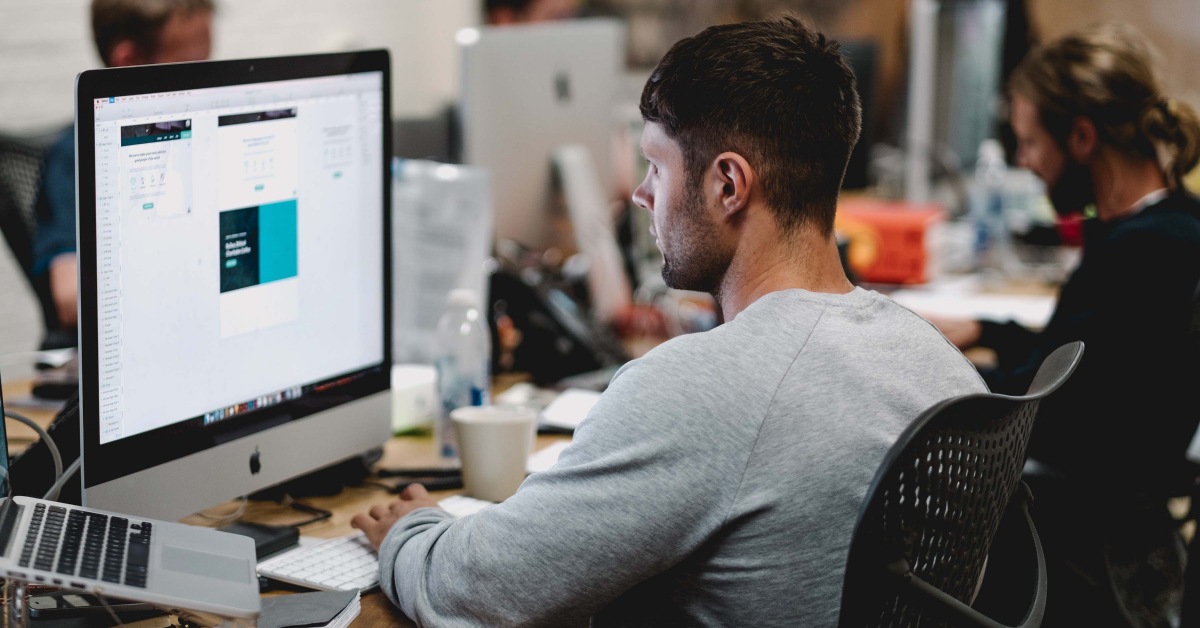
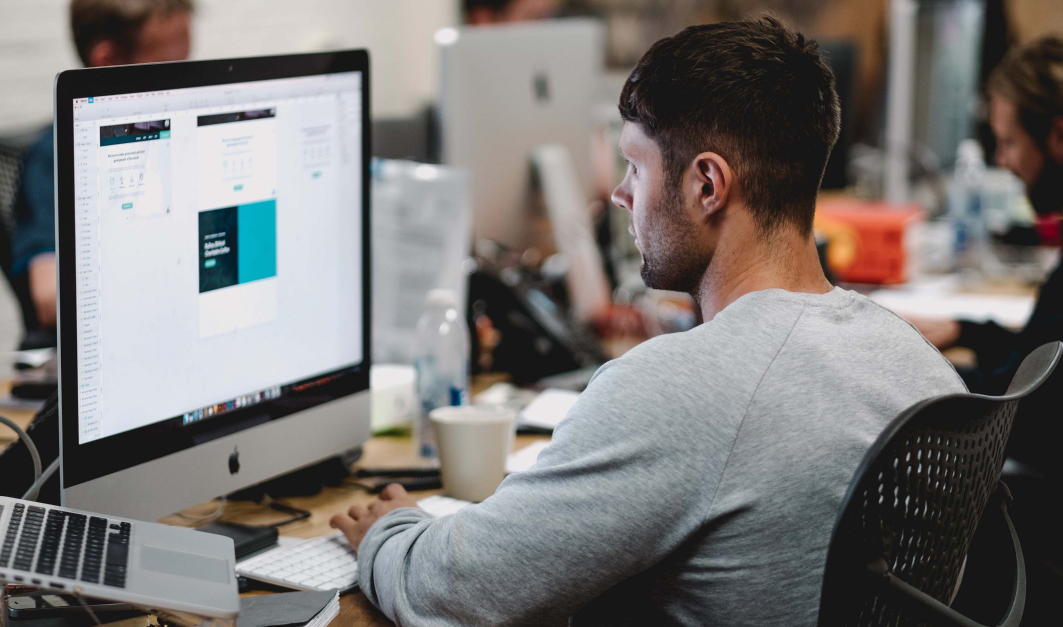
Arreglos en responsive de imagenes

diff --git a/dist/main.css b/dist/main.css
@@ -205,7 +205,7 @@ h1{
   padding: 1rem 2rem;
   display: flex;
   align-items: center;
-  font-size: 1.2em;
+  font-size: 1em;
   max-width: 768px;
 }
 
@@ -243,6 +243,8 @@ h1{
   align-items: flex-start;
   flex-direction: column;
   max-width: 1200px;
+  justify-content: center;
+  align-content: center;
 }
 
 .imagenes-stock div {
@@ -257,6 +259,7 @@ h1{
 .imagenes-stock div img {
   margin: 1rem;
   width: 100%;
+  min-width: 250px;
   box-shadow: 1px 1px 3px rgb(49, 49, 49);
 }
 
@@ -285,6 +288,16 @@ h1{
 
 
 /*Responsive*/
+
+@media screen and (max-width:980px) {
+  .imagenes-stock {
+    flex-wrap: wrap;
+  }
+
+  .imagenes-stock div{
+    width: 40%;
+  }
+}
 
 @media screen and (min-width:768px) {
   .button-menu{

diff --git a/src/style.css b/src/style.css
@@ -156,7 +156,7 @@ h1{
   padding: 1rem 2rem;
   display: flex;
   align-items: center;
-  font-size: 1.2em;
+  font-size: 1em;
   max-width: 768px;
 }
 
@@ -194,6 +194,8 @@ h1{
   align-items: flex-start;
   flex-direction: column;
   max-width: 1200px;
+  justify-content: center;
+  align-content: center;
 }
 
 .imagenes-stock div {
@@ -208,6 +210,7 @@ h1{
 .imagenes-stock div img {
   margin: 1rem;
   width: 100%;
+  min-width: 250px;
   box-shadow: 1px 1px 3px rgb(49, 49, 49);
 }
 
@@ -236,6 +239,16 @@ h1{
 
 
 /*Responsive*/
+
+@media screen and (max-width:980px) {
+  .imagenes-stock {
+    flex-wrap: wrap;
+  }
+
+  .imagenes-stock div{
+    width: 40%;
+  }
+}
 
 @media screen and (min-width:768px) {
   .button-menu{
